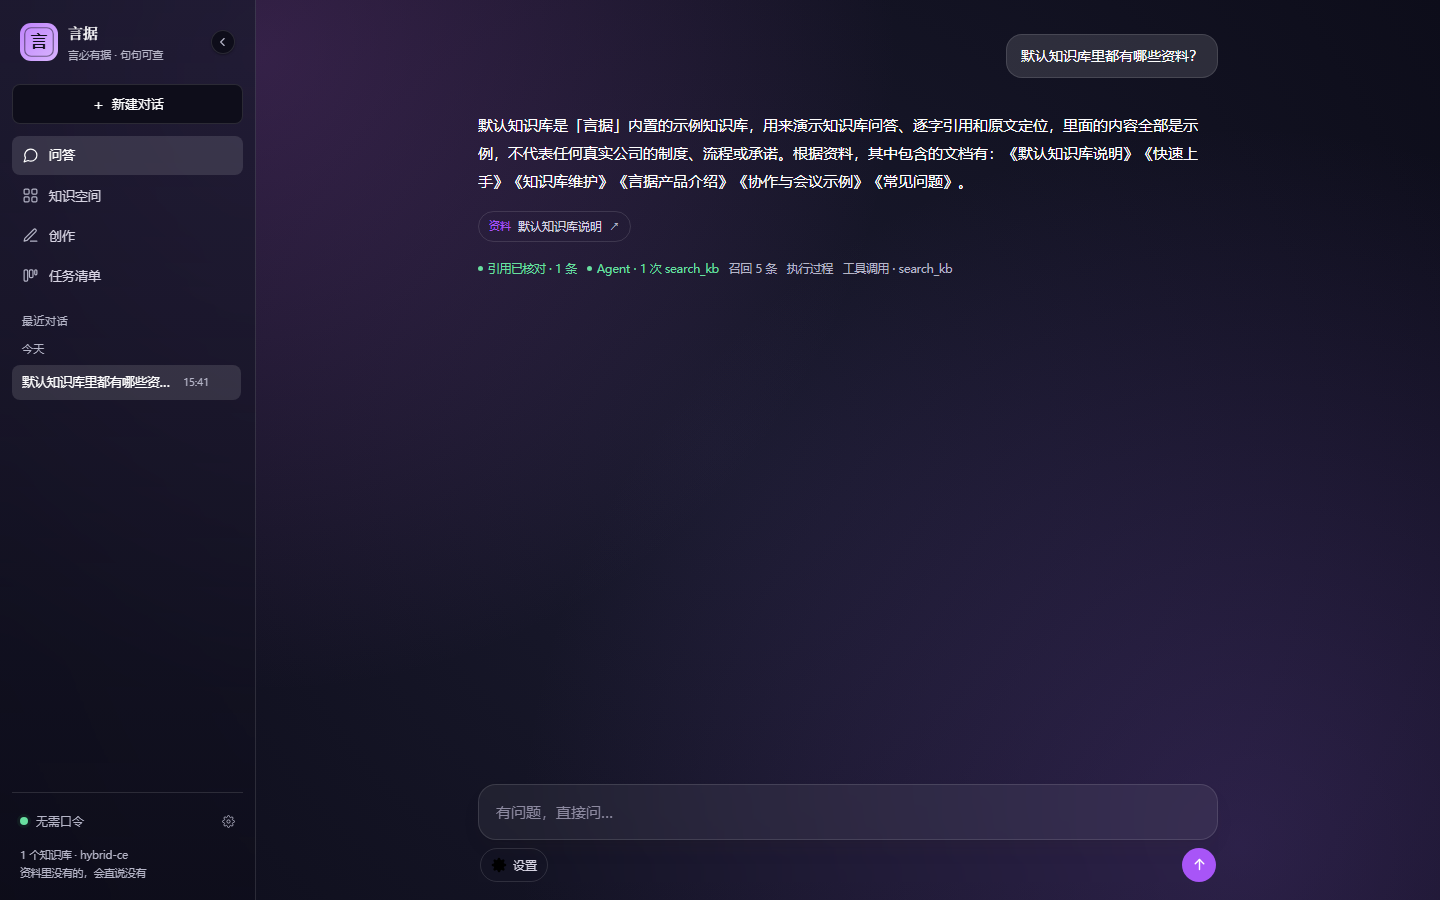
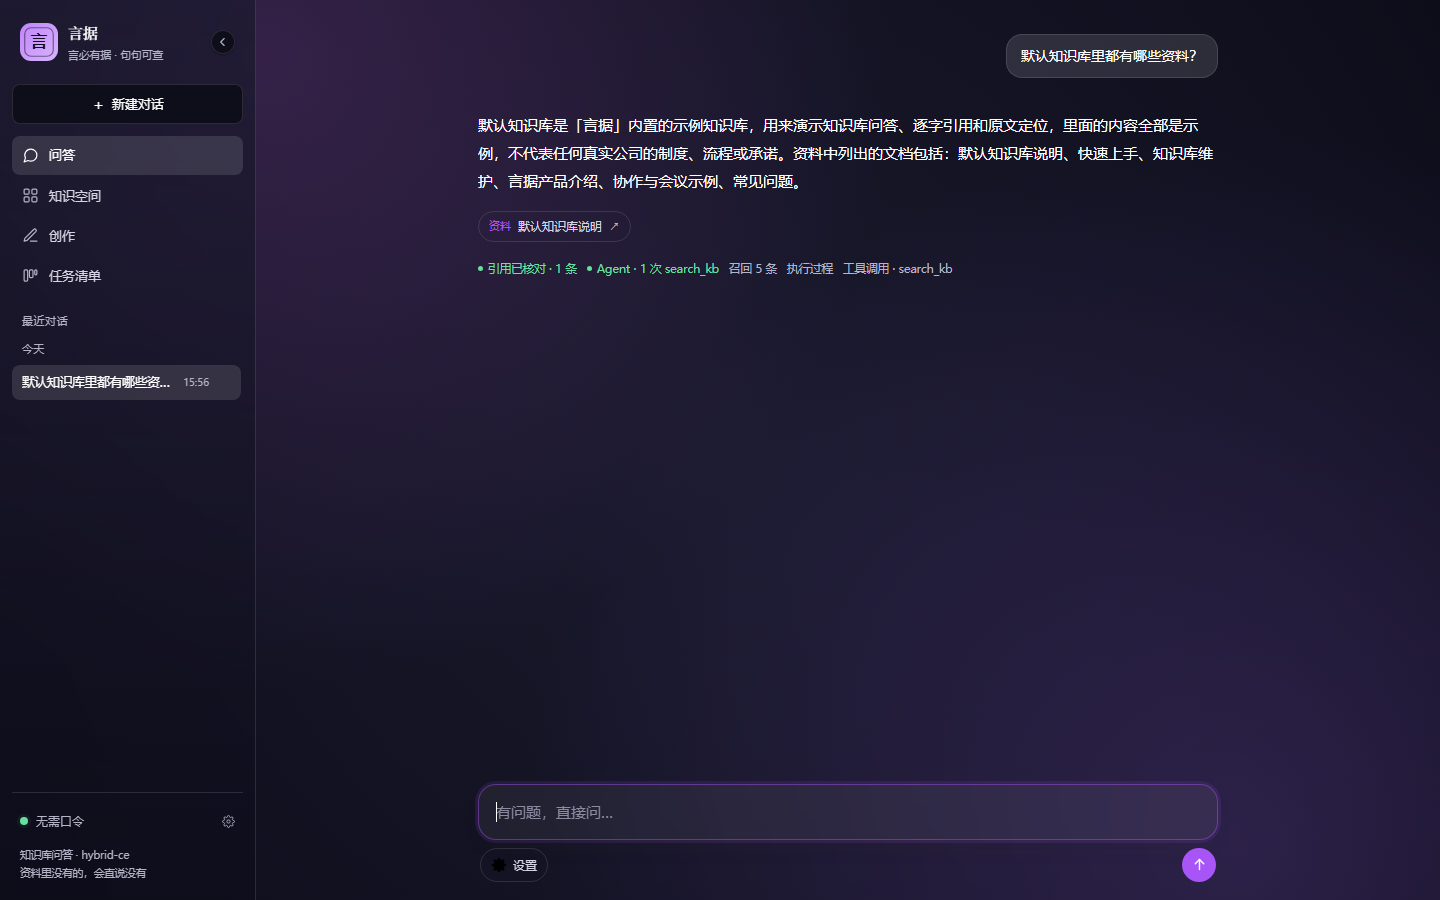
侧栏状态改显示检索模式，不再暴露全站知识库总数
匿名访客只该看到自己可读的默认库；/health 的 collections 是全站计数，
放在侧栏会被读成「有 2 个库」。改成「知识库问答 · hybrid-ce」。

diff --git a/web/index.html b/web/index.html
@@ -5179,7 +5179,7 @@
     try {
       const h = await fetch('/health').then(r => r.json());
       state.health = h;
-      const bits = [(h.collections || 0) + ' 个知识库', h.mode || '—'];
+      const bits = ['知识库问答', h.mode || '—'];
       $('#health-pill').textContent = bits.join(' · ');
       const facts = $('#side-facts');
       if (facts) facts.textContent = bits.join(' · ');
